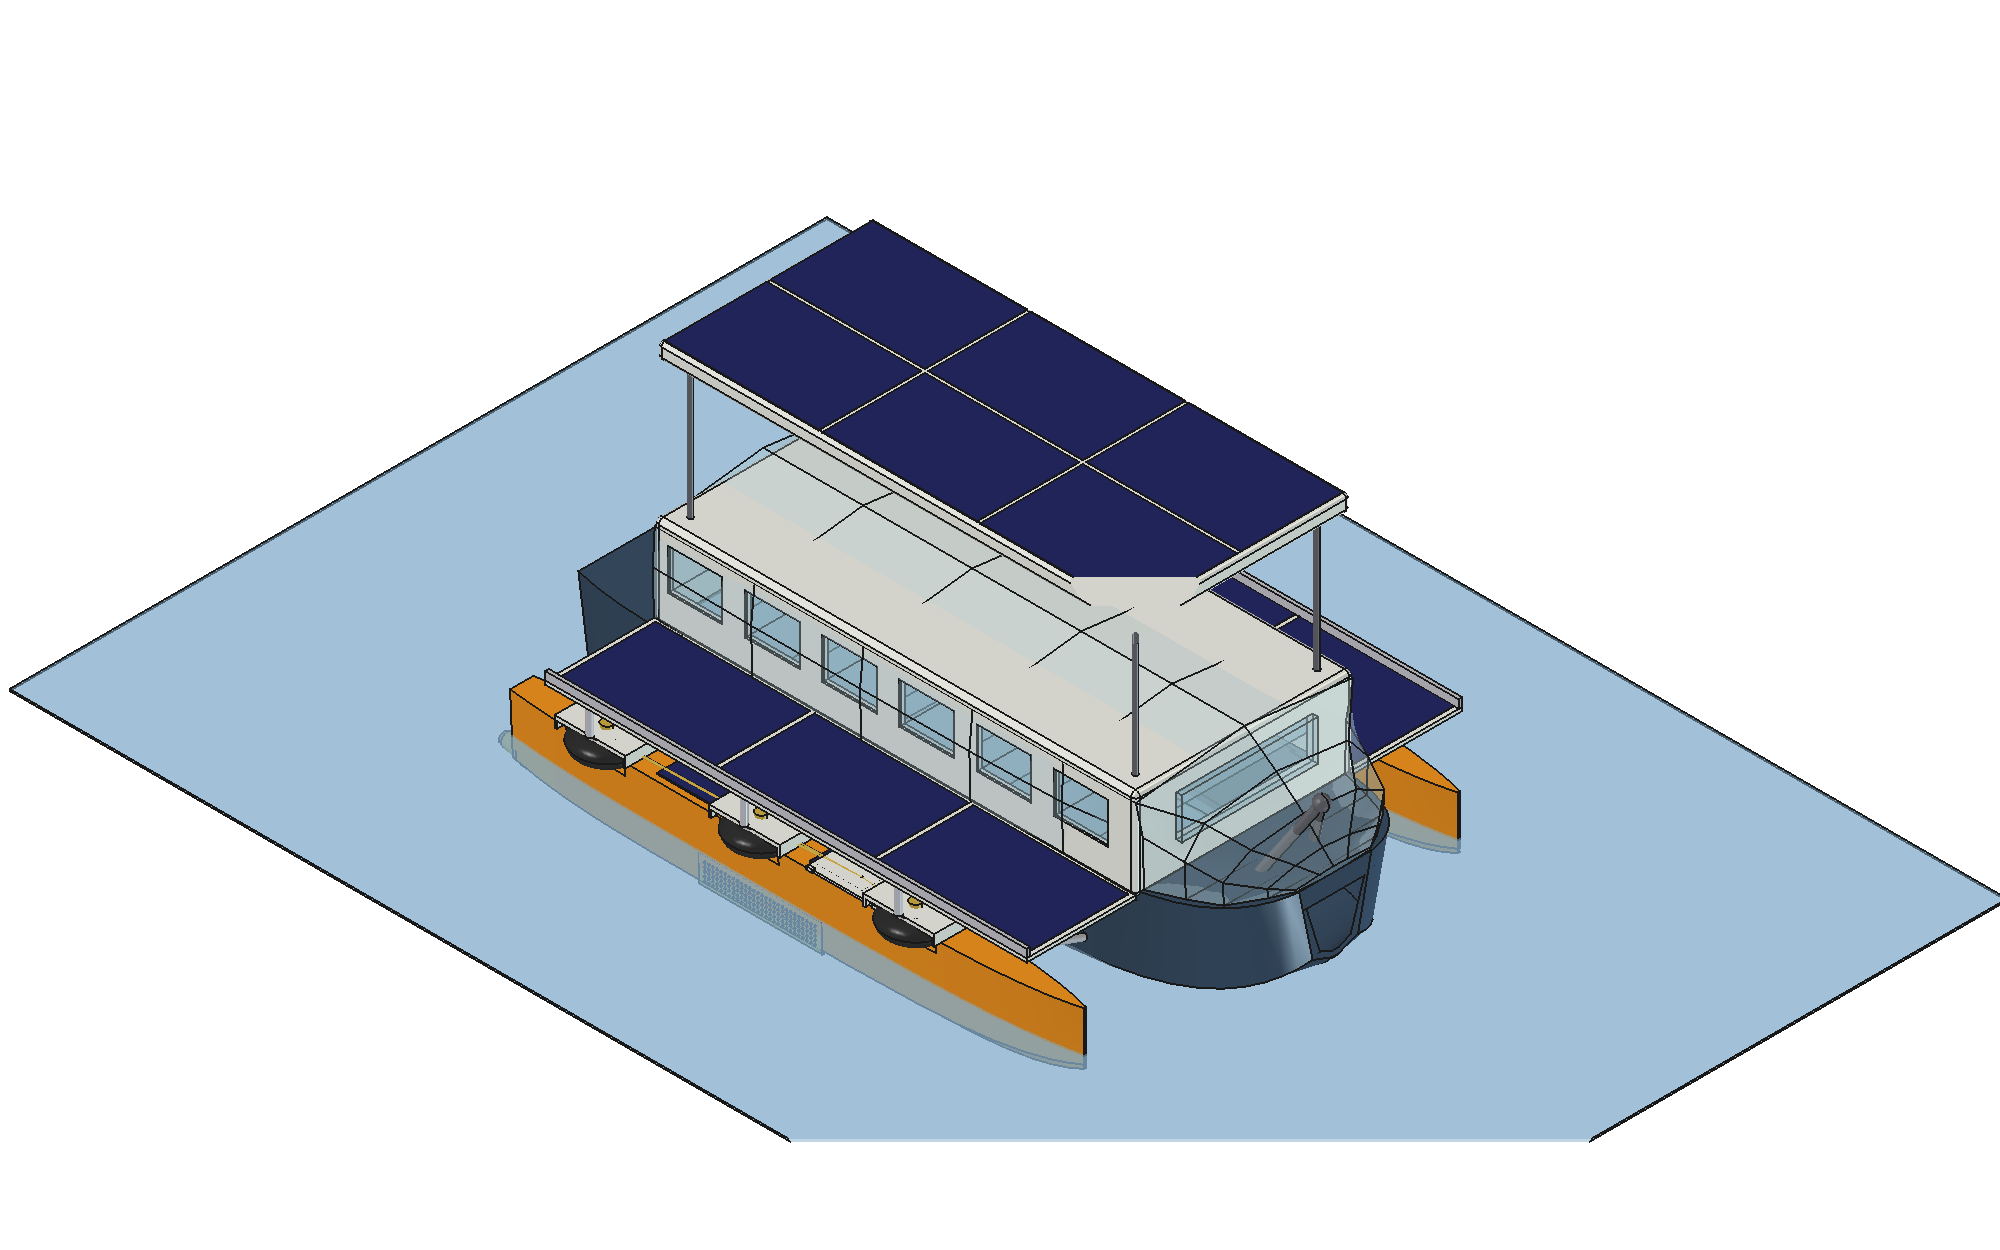
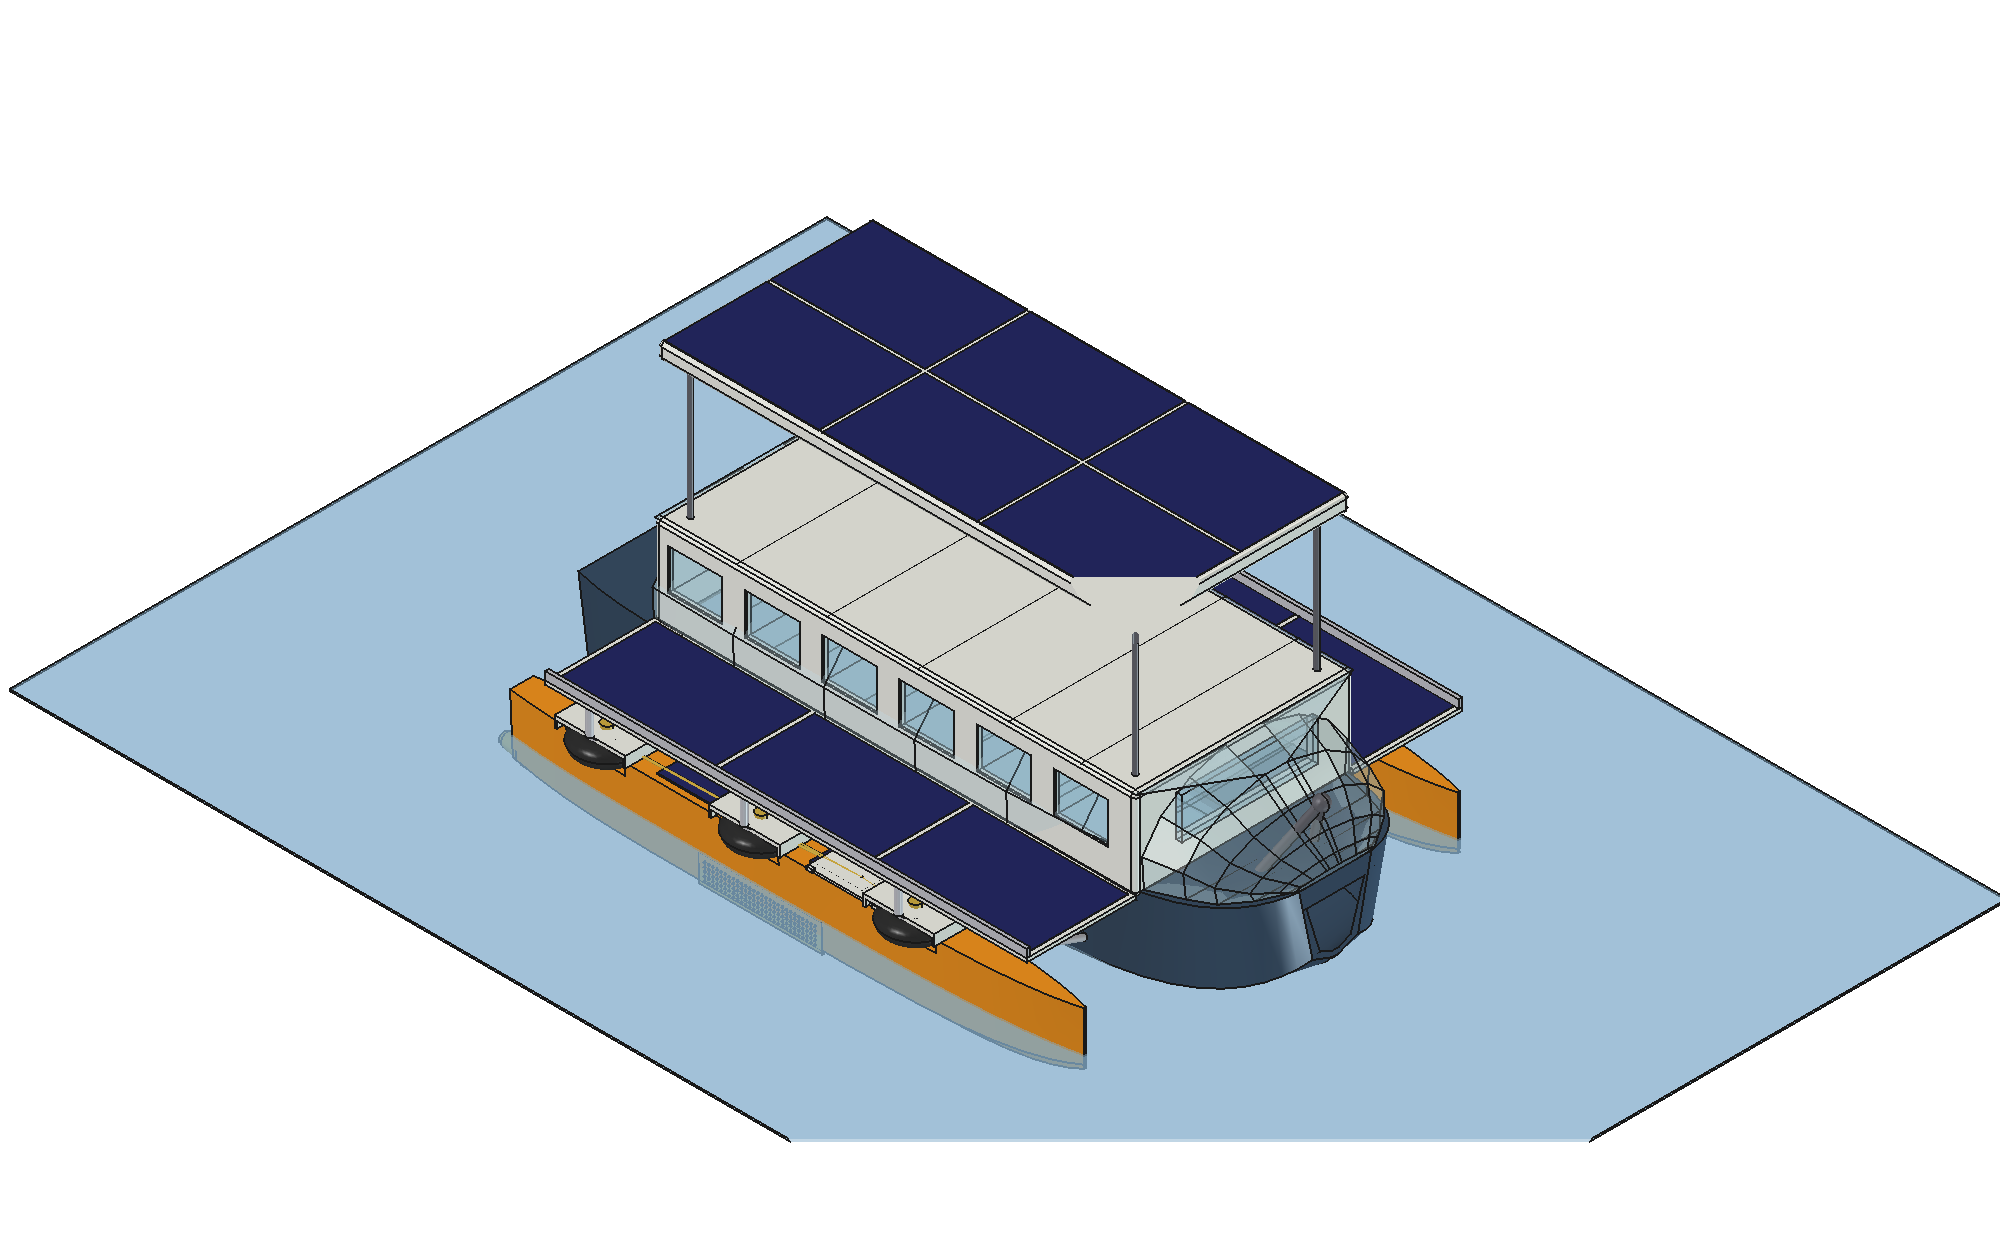
Winter garden: fuller, rounder glass profile
Elliptical side curve with five bends per side and a gentle outward
bulge; glass sides rise to the roof-lid edge with an open top over the
cabin (pop-top unobstructed), closed rounded crown around the bow
bubble over five frames. Ruled loft keeps the framed bent-panel
construction.

Changed region(s): [[0.341, 0.468, 0.713, 0.7176], [0.372, 0.3432, 0.403, 0.3744], [0.31, 0.4368, 0.341, 0.468]]

diff --git a/freecad/build_boat.py b/freecad/build_boat.py
@@ -420,9 +420,10 @@ def build_drawbar(deployed):
 
 
 def build_wintergarden():
-    """Full curved plexiglass envelope: sheer line -> cabin sides ->
-    raked bow bubble. Lofted from consistently-ordered sections (the
-    plexiglass is bent in multiple planes, panel by panel)."""
+    """Full curved plexiglass envelope, fuller/rounder profile:
+    elliptical side curve with a gentle outward bulge (5 bends per
+    side), open top under the roof lid over the cabin, closed crown
+    around the raked bow bubble. Ruled loft = bent-panel build."""
     def gunw(x):
         st = P.STATIONS
         for i in range(len(st) - 1):
@@ -432,23 +433,31 @@ def build_wintergarden():
                         st[i][5] + t * (st[i + 1][5] - st[i][5]))
         return st[-1][1], st[-1][5]
 
-    def section(x, apex, thw):
+    def section(x, top_z, top_hw):
         gw, sz = gunw(x)
         gw -= P.WG_EDGE_INSET
-        shoulder = sz + (apex - sz) * 0.86
-        mid = (sz + apex) / 2
-        return wire([(x, 0, sz - 20), (x, -gw, sz), (x, -gw - 14, mid),
-                     (x, -thw, shoulder), (x, 0, apex),
-                     (x, thw, shoulder), (x, gw + 14, mid), (x, gw, sz)])
+        a = gw + 95                     # elliptical half-width w/ bulge
+        b_ = top_z - sz
+        side = []
+        for th in (20, 40, 60, 80):
+            yy = min(a * math.cos(math.radians(th)), gw + 60)
+            zz = sz + b_ * math.sin(math.radians(th))
+            side.append((yy, zz))
+        pts = [(x, 0, sz - 20), (x, -gw, sz)]
+        pts += [(x, -yy, zz) for yy, zz in side]
+        pts += [(x, -top_hw, top_z), (x, top_hw, top_z)]
+        pts += [(x, yy, zz) for yy, zz in reversed(side)]
+        pts += [(x, gw, sz)]
+        return wire(pts)
 
     wires = []
-    for x in (P.CABIN_X0, 2000, 3200, 4400, 5400, 6200):
-        wires.append(section(x, P.WG_APEX_CABIN, P.WG_TOP_HW))
-    for x, apex, f in ((6550, 1950, 0.80), (6850, 1700, 0.66),
-                       (7060, 1480, 0.5), (7180, 1360, 0.38)):
+    for x in (P.CABIN_X0, 1800, 2800, 3800, 4800, 5600, 6200):
+        wires.append(section(x, 2145, P.WG_TOP_HW))
+    for x, apex in ((6550, 1980), (6800, 1760), (7000, 1560),
+                    (7130, 1430), (7190, 1360)):
         gw, _ = gunw(x)
-        wires.append(section(x, apex, max((gw - P.WG_EDGE_INSET) * f, 110)))
-    return Part.makeLoft(wires, True, True)   # ruled: bent-panel look
+        wires.append(section(x, apex, max((gw - P.WG_EDGE_INSET) * 0.12, 50)))
+    return Part.makeLoft(wires, True, True)
 
 
 def build_main_jet():
